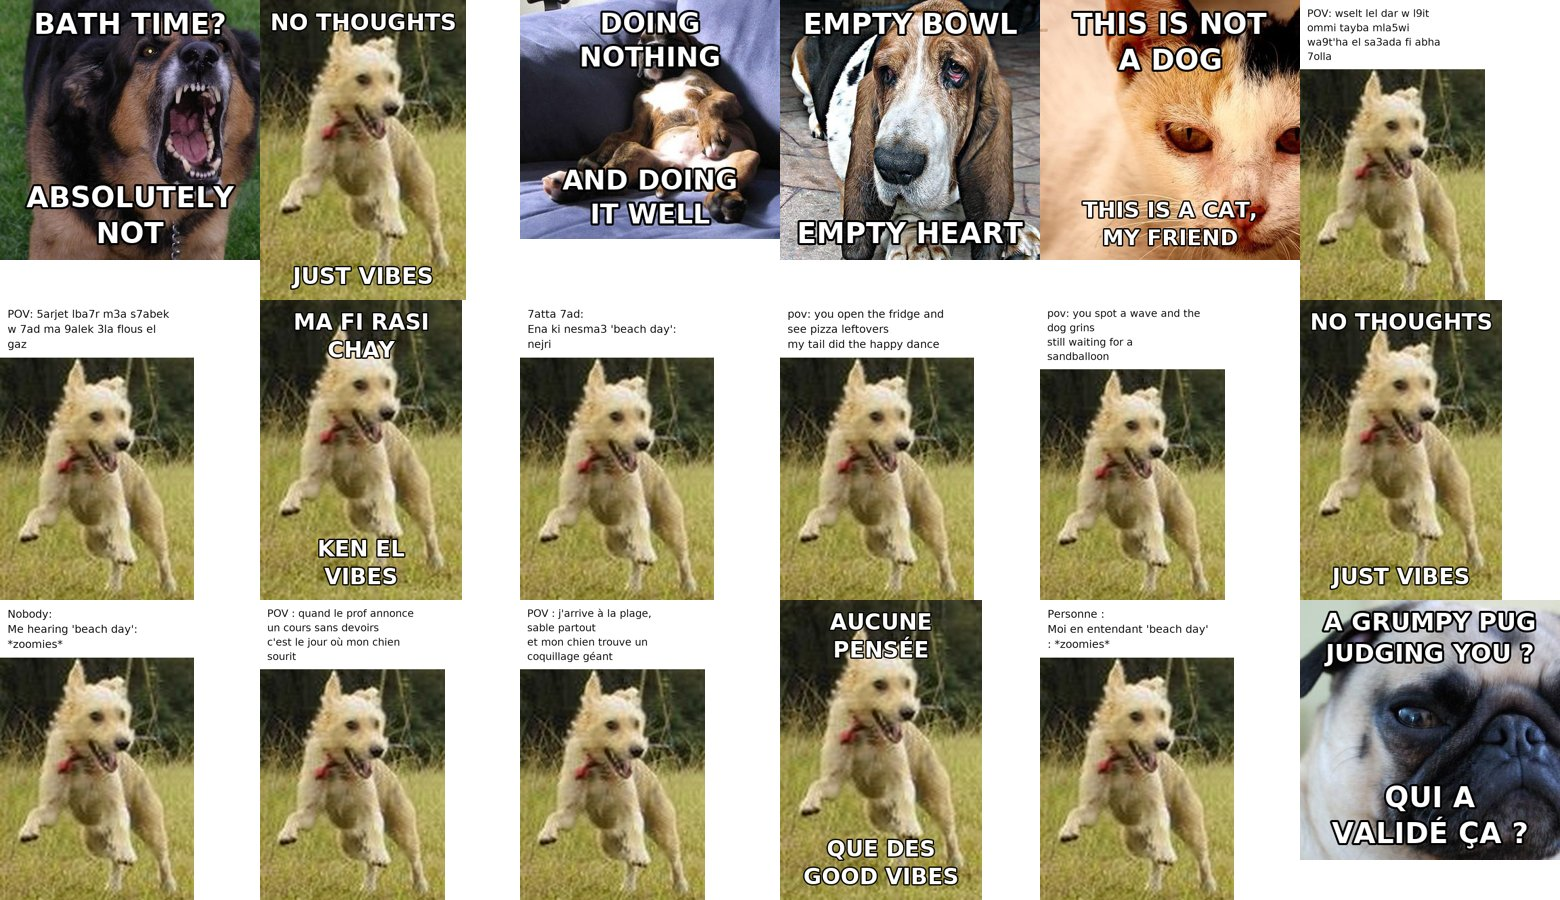
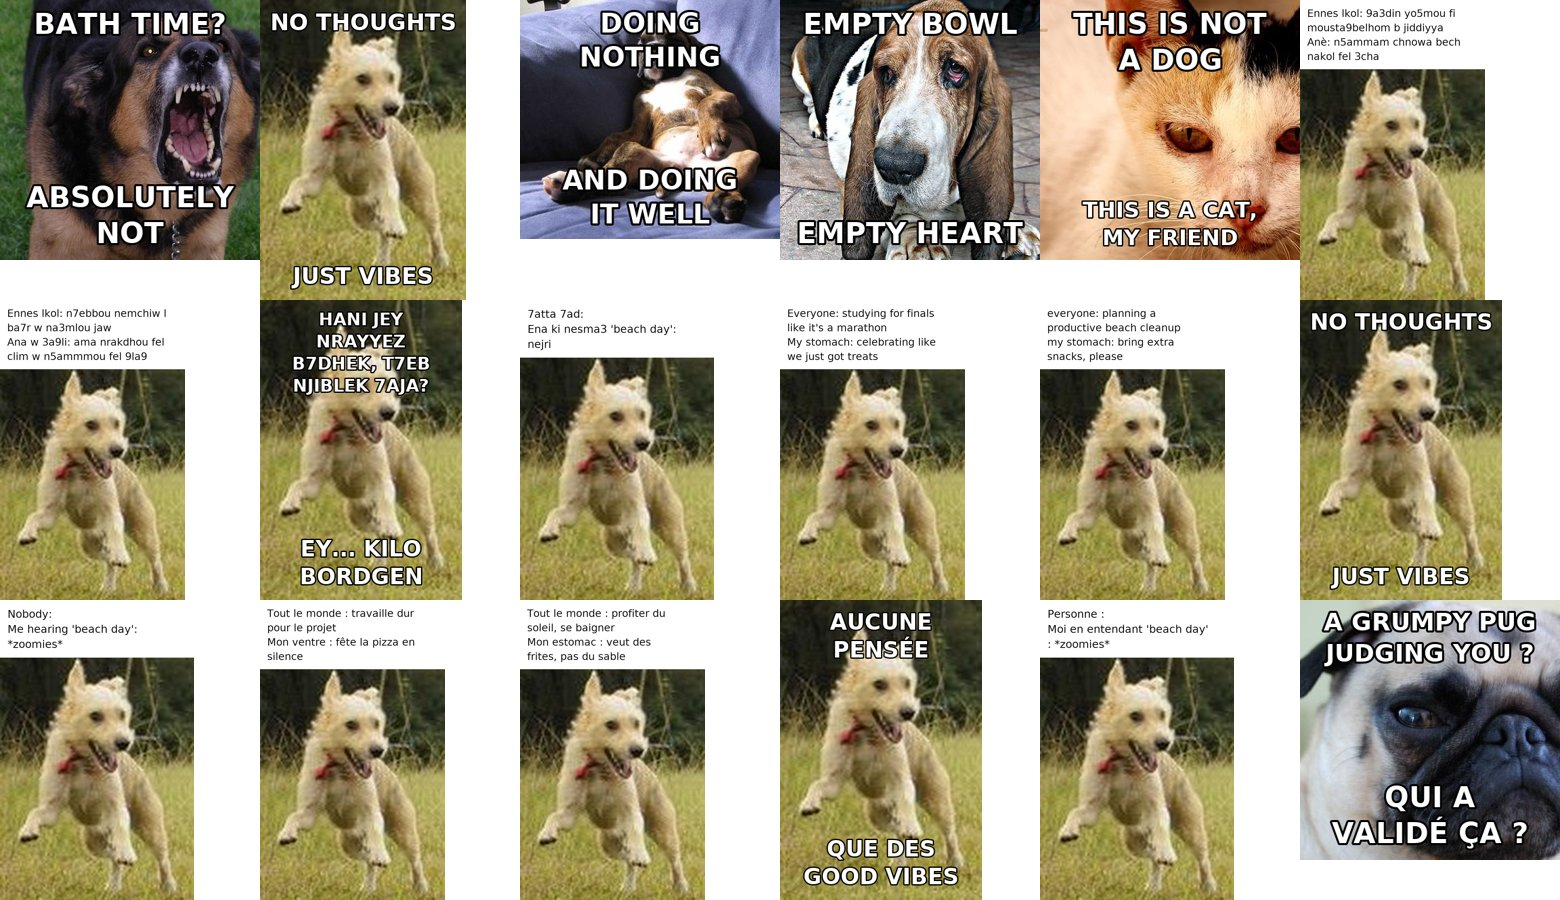
Captions: Tunisian meme formats and stricter Arabizi filter
- Five joke structures from six Tunisian memes collected by the team (structure only, no images): me_after, reaction, everyone_vs_me, five_min_later, absurd_answer, plus matching Darija/EN/FR tone examples.
- Dialogue memes put each speaker on its own line.
- Filter: Tounsi words also match with glued prefixes (l3asba, ya7mar) and conjugations (3asbet); '3asba' reported in the app. Tests: 32/32 bad lines blocked, 0 false positives on 302 template lines and 15 look-alikes.
- Odd unicode hyphens/spaces from LLMs are normalised.

diff --git a/part3_multimodal/src/captioner.py b/part3_multimodal/src/captioner.py
@@ -63,17 +63,22 @@ T = {
         "happy": [("ki tkoul 'barra n7arjou'", "w ena deja 9odem el bab"), ("el weekend wsel", "w ena farhan barcha"),
                   ("ki n9oulou 'chkoun yheb makla?'", "ENA ENA ENA"), ("ma fi rasi chay", "ken el vibes"),
                   ("rba7t el loto?", "la, 3tawni 9at3a jben"),
-                  ("ma nejjemch nji lyoum, 3andi 3ors", "3ors chkoun? ... 3ors Ronaldo")],
+                  ("ma nejjemch nji lyoum, 3andi 3ors", "3ors chkoun? ... 3ors Ronaldo"),
+                  ("chnowa ra2yek fel stage fi juillet?", "ena:"),
+                  ("hani jey nrayyez b7dhek, t7eb njiblek 7aja?", "ey... kilo bordgen")],
         "angry": [("chkoun kla el kaskrout mte3i?!", "taw nwarrih chkoun ena"), ("9oltlek LA", "ma t3awedhech"),
                   ("ma tkallamnich taw", "ena mnarvez barcha"), ("el facteur rja3", "w ena mazelt ma nsitech"),
-                  ("ki y9oulou 'douch'", "ya khouya LA, LA")],
+                  ("ki y9oulou 'douch'", "ya khouya LA, LA"),
+                  ("ma ghir tbassem chwaya w ma tbayench", "behi n7awel... *ba3d 5 d9aye9*")],
         "relaxed": [("ya5i 3ich", "zéro stress, zéro mochkla"), ("ena w el canapé", "love story"),
                     ("el examen ghodwa?", "mouch mochkelti"), ("9a3ed mrayyah", "el donya tnajjem tostanna"),
                     ("ma 3andi ma na3mel", "w hedhi a7la 7aja"),
-                    ("ena ba3d ma t3arakt m3a el 7ouma lkol 3al 7ess", "bech nrayyez chwaya")],
+                    ("ena ba3d ma t3arakt m3a el 7ouma lkol 3al 7ess", "bech nrayyez chwaya"),
+                    ("ennes lkol bdet t7adher fel PFE", "dhamiri: normal, normal")],
         "sad": [("9alouli 'nerja3 taw'", "w ma rja3ouch"), ("nhar el ithnin", "ya rabbi 3lech"),
                 ("7atta 7ad ma 3tani 9at3a", "mel kaskrout"), ("el bol fergh", "w 9albi zeda"),
-                ("tlabt nal3eb", "9alouli 'ba3d'")],
+                ("tlabt nal3eb", "9alouli 'ba3d'"),
+                ("ennes lkol mchat lel b7ar", "w ena 9a3ed nestanna fel bab")],
         "uncertain": [("mich fehem ken {emo} walla {other}", "el AI mte3na 7ayer zeda"),
                       ("{emo}? {other}?", "7atta ena ma na3rafch"),
                       ("wejhi ki y9oulou 'chbik?'", "{emo}... ama chwaya {other}")],
@@ -84,13 +89,16 @@ T = {
     "english": {
         "happy": [("when you say 'walk'", "and i'm already at the door"), ("weekend finally here", "best day of my life"),
                   ("when the treat bag opens", "pure happiness"), ("no thoughts", "just vibes"),
-                  ("did i win the lottery?", "no, someone dropped cheese")],
+                  ("did i win the lottery?", "no, someone dropped cheese"),
+                  ("what do you think about an internship in july?", "me:")],
         "angry": [("who ate my sandwich", "i will find you"), ("i said no", "don't ask again"),
                   ("the mailman came back", "this means war"), ("bath time?", "absolutely not"),
-                  ("don't talk to me", "before my breakfast")],
+                  ("don't talk to me", "before my breakfast"),
+                  ("them: just smile a little. me: ok, i'll try...", "*5 minutes later*")],
         "relaxed": [("exam tomorrow?", "not my problem"), ("me and the couch", "a love story"),
                     ("zero stress", "zero problems"), ("doing nothing", "and doing it well"),
-                    ("the world can wait", "i'm resting")],
+                    ("the world can wait", "i'm resting"),
+                    ("everyone: already working on their final project", "my conscience: normal, normal")],
         "sad": [("they said 'be right back'", "it's been 5 minutes"), ("monday again", "why"),
                 ("nobody shared the sandwich", "not even a crumb"), ("empty bowl", "empty heart"),
                 ("i asked to play", "they said 'later'")],
@@ -103,13 +111,16 @@ T = {
     "french": {
         "happy": [("quand tu dis 'promenade'", "j'étais déjà devant la porte"), ("enfin le week-end", "meilleur jour de ma vie"),
                   ("quand le paquet de friandises s'ouvre", "bonheur total"), ("aucune pensée", "que des good vibes"),
-                  ("j'ai gagné au loto ?", "non, quelqu'un a fait tomber du fromage")],
+                  ("j'ai gagné au loto ?", "non, quelqu'un a fait tomber du fromage"),
+                  ("ton avis sur un stage en juillet ?", "moi :")],
         "angry": [("qui a mangé mon sandwich", "je vais te trouver"), ("j'ai dit non", "ne redemande pas"),
                   ("le facteur est revenu", "c'est la guerre"), ("l'heure du bain ?", "hors de question"),
-                  ("ne me parle pas", "avant mon petit-déj")],
+                  ("ne me parle pas", "avant mon petit-déj"),
+                  ("eux : souris un peu. moi : ok, j'essaie...", "*5 minutes plus tard*")],
         "relaxed": [("examen demain ?", "pas mon problème"), ("moi et le canapé", "une histoire d'amour"),
                     ("zéro stress", "zéro problème"), ("ne rien faire", "et le faire bien"),
-                    ("le monde peut attendre", "je me repose")],
+                    ("le monde peut attendre", "je me repose"),
+                    ("tout le monde : déjà sur son PFE", "ma conscience : normal, normal")],
         "sad": [("ils ont dit 'je reviens'", "ça fait 5 minutes"), ("encore lundi", "pourquoi"),
                 ("personne n'a partagé le sandwich", "pas même une miette"), ("gamelle vide", "cœur vide"),
                 ("j'ai demandé à jouer", "ils ont dit 'plus tard'")],
@@ -155,6 +166,13 @@ IDEA_TEMPLATES = {
     },
 }
 
+# "Reaction" structure from the owner's Tunisian references: a question, then "Me:" and the dog's face answers.
+for _lang, (_q, _me) in {"english": ("what do you think about {idea}?", "Me:"),
+                         "french": ("ton avis sur {idea} ?", "Moi :"),
+                         "darija": ("chnowa ra2yek f {idea}?", "Ena:")}.items():
+    for _rows in IDEA_TEMPLATES[_lang].values():
+        _rows.append((_q, _me, "bar"))
+
 LANG_RULES = {
     "darija": ("Tunisian Arabic (Tounsi / Derja) written in Latin script with Arabizi digits (3=ع, 7=ح, 9=ق, 5=خ). "
                "Use Tunisian words such as barcha, taw, chnowa, kifech, 3lech, mouch, yezzi, behi, mte3, chbik, ya5i, "
@@ -183,6 +201,19 @@ FORMATS = {
                                        "bottom: 'Me: <the dog's reply, matching the emotion>' (Tounsi 'Ena:', French 'Moi :')"},
     "me_after": {"style": "classic", "how": "top: 'Me after <an exhausting or absurd effort>' (Tounsi 'Ena ba3d ma ...', "
                                              "French 'Moi après ...'); bottom: a short ironic punchline about why, or empty"},
+    # The next four come from Tunisian memes collected by the owner (2026-11-27): the photo IS the punchline.
+    "reaction": {"style": "bar", "how": "top: a question asking for an opinion on a relatable situation (Tounsi "
+                                        "'chnowa ra2yek f ...?', French 'ton avis sur ... ?'); bottom: exactly 'Me:' "
+                                        "(Tounsi 'Ena:', French 'Moi :') and nothing else: the dog's face is the answer"},
+    "everyone_vs_me": {"style": "bar", "how": "top: 'Everyone: <doing the serious, responsible thing>' (Tounsi "
+                                              "'Ennes lkol:', French 'Tout le monde :'); bottom: 'My <conscience / "
+                                              "stomach / brain>: <a reaction matching the emotion>'"},
+    "five_min_later": {"style": "bar", "how": "top: someone asks the dog to behave or smile and the dog says it will try "
+                                              "(Tounsi '... / behi n7awel...', French '... / ok, j'essaie...'); bottom: "
+                                              "exactly '*5 minutes later*' (Tounsi '*ba3d 5 d9aye9*', French "
+                                              "'*5 minutes plus tard*'): the face shows how it went"},
+    "absurd_answer": {"style": "bar", "how": "top: a normal question or offer someone makes; bottom: a short, totally "
+                                             "unexpected answer (a food, a random object) delivered with this emotion"},
     "me_also_me": {"style": "bar", "how": "top: 'Me: <a good resolution>' (Tounsi 'Ena:', French 'Moi :'); "
                                           "bottom: 'Also me: <breaking it 5 minutes later>' (Tounsi 'Ena zeda:', French 'Moi aussi :')"},
 }
@@ -206,14 +237,20 @@ Rules:
 # A caption matching any pattern is discarded (→ next provider → templates); the user's own idea is checked too.
 # Patterns are matched on the lower-cased, accent-stripped text AND on a copy with repeated letters collapsed
 # ("zebbbi" → "zebi", "kouuss" → "kous"), so they are written with single letters. Word-boundary match.
-_BLOCKLIST = [
-    # Tunisian / Maghrebi Arabizi: vulgarity
-    "ko?u?s", "ze?bi?", "zebour", "zab", "nik", "nik(?:om|omk|ek|tek|ni|ou)", "n[iy]a?yek", "nayek", "mnayek", "manyouk", "nayk[a-z]*",
-    "9a7?h?ba", "ka7?h?ba", "9a7b[a-z]*", "zok[a-z]*", "tabo?un", "sorm", "terma", "zamel", "zemla", "mibo?u?n",
-    "3asba", "3tay", "3atay", "khra", "5ra", "bzoula", "9lewi", "9lawi", "zoub",
-    # Tunisian: insults and name-calling
+# Arabizi glues little words to the front ("l3asba", "el3asba", "ya7mar", "w zebi"), so Tounsi patterns also match
+# with one of those prefixes attached.
+_TOUNSI_PREFIX = r"(?:ya|el|wel|bel|fel|w|b|l|f)?"
+_TOUNSI = [
+    # vulgarity
+    "ko?u?s", "ze?bi?", "zebour", "zab", "nik", "nik(?:om|omk|ek|tek|ni|ou)", "n[iy]a?yek", "nayek", "mnayek", "manyouk",
+    "nayk[a-z]*", "9a7?h?ba", "ka7?h?ba", "9a7b[a-z]*", "zok", "zokom[a-z]*", "zokek", "tabo?un", "sorm", "terma",
+    "zamel", "zemla", "mibo?u?n", "3a?sb(?:a|et|ti|tek|tkom|ou)?", "3tay", "3atay", "khra", "5ra", "bzoula", "9lewi",
+    "9lawi", "zoub",
+    # insults and name-calling
     "7mar", "hmar", "bhim[a-z]*", "msa5", "wsa5", "ghbi", "mtakhlef", "mahbou?l", "ta7an", "9awed",
     "om+e?k", "yem+e?k", "yom+e?k", "bouk", "yel3an[a-z]*", "l3an", "tfo?u", "wled el 7ram", "bent el 7ram",
+]
+_BLOCKLIST = [_TOUNSI_PREFIX + "(?:" + "|".join(_TOUNSI) + ")"] + [
     # English
     "fuck[a-z]*", "f+u+c+k", "shit[a-z]*", "bitch[a-z]*", "dick[a-z]*", "pussy", "ass", "ashole", "asshole", "bastard[a-z]*",
     "slut[a-z]*", "whore[a-z]*", "cunt", "cock", "piss[a-z]*", "crap[a-z]*", "damn[a-z]*", "hell", "wtf", "stfu", "shut up",

diff --git a/part3_multimodal/src/meme_maker.py b/part3_multimodal/src/meme_maker.py
@@ -1,6 +1,7 @@
 """Classic meme renderer: bold uppercase top/bottom text with a black outline, auto-sized and wrapped."""
 from __future__ import annotations
 
+import re
 import textwrap
 from functools import lru_cache
 from pathlib import Path
@@ -15,6 +16,8 @@ FONT_CANDIDATES = [
     Path("/usr/share/fonts/truetype/msttcorefonts/Impact.ttf"),
 ]
 MAX_SIDE = 900
+# In dialogue memes each speaker starts a new line ("Them: ... Me: ..." → two lines), as in real meme pages.
+_SPEAKER = re.compile(r"(?<=[.!?…])\s+(?=(?:me|also me|ena|ena zeda|moi|moi aussi|houma|them|eux)\s?:)", re.I)
 
 
 @lru_cache(maxsize=64)
@@ -113,7 +116,8 @@ def make_bar_meme(img: Image.Image, lines: list[str]) -> Image.Image:
 def render(img: Image.Image, caption: dict) -> Image.Image:
     """Draw a caption dict from captioner.generate_caption in its style ("classic" or "bar")."""
     if caption.get("style") == "bar":
-        return make_bar_meme(img, [caption.get("top", ""), caption.get("bottom", "")])
+        lines = [part for key in ("top", "bottom") for part in _SPEAKER.split(caption.get(key, ""))]
+        return make_bar_meme(img, lines)
     return make_meme(img, caption.get("top", ""), caption.get("bottom", ""))
 
 

diff --git a/part3_multimodal/src/smoke_test.py b/part3_multimodal/src/smoke_test.py
@@ -86,9 +86,12 @@ def captions():
 BAD = ["ya 7mar chbik", "ya zebi 3lik", "kouuuss omek", "nayek el jar", "9a7ba", "ya bhim", "ya wled el 7ram",
        "this is so f***ing good", "you idiot", "shut up human", "what the hell", "stupid mailman", "your mom",
        "ta gueule", "quel connard", "putain de lundi", "espèce d'abruti", "c'est de la merde", "ferme-la",
-       "zebbbi", "f u c k", "sh!t happens", "Débile"]
+       "zebbbi", "f u c k", "sh!t happens", "Débile",
+       # reported by the owner (2026-11-27): "3asba" + the ways Arabizi glues or conjugates it
+       "3asba", "3ASBAAA", "l3asba", "el3asba", "w el 3asba", "3asbet", "3sba", "ya7mar", "wzebi"]
 GOOD = ["el kalb mte3i yheb el makla", "klab el 7ouma lkol", "nike shoes", "ice cream cone", "hello human",
-        "il fait la gueule", "kousksi nhar el a7ad", "class is over", "beef jerky time", "7el el bab"]
+        "il fait la gueule", "kousksi nhar el a7ad", "class is over", "beef jerky time", "7el el bab",
+        "ena 3sabi ta3bou", "kalb 3asabi", "khobz w zebda", "zokra w bendir", "kas te"]
 
 
 def caption_safety():
